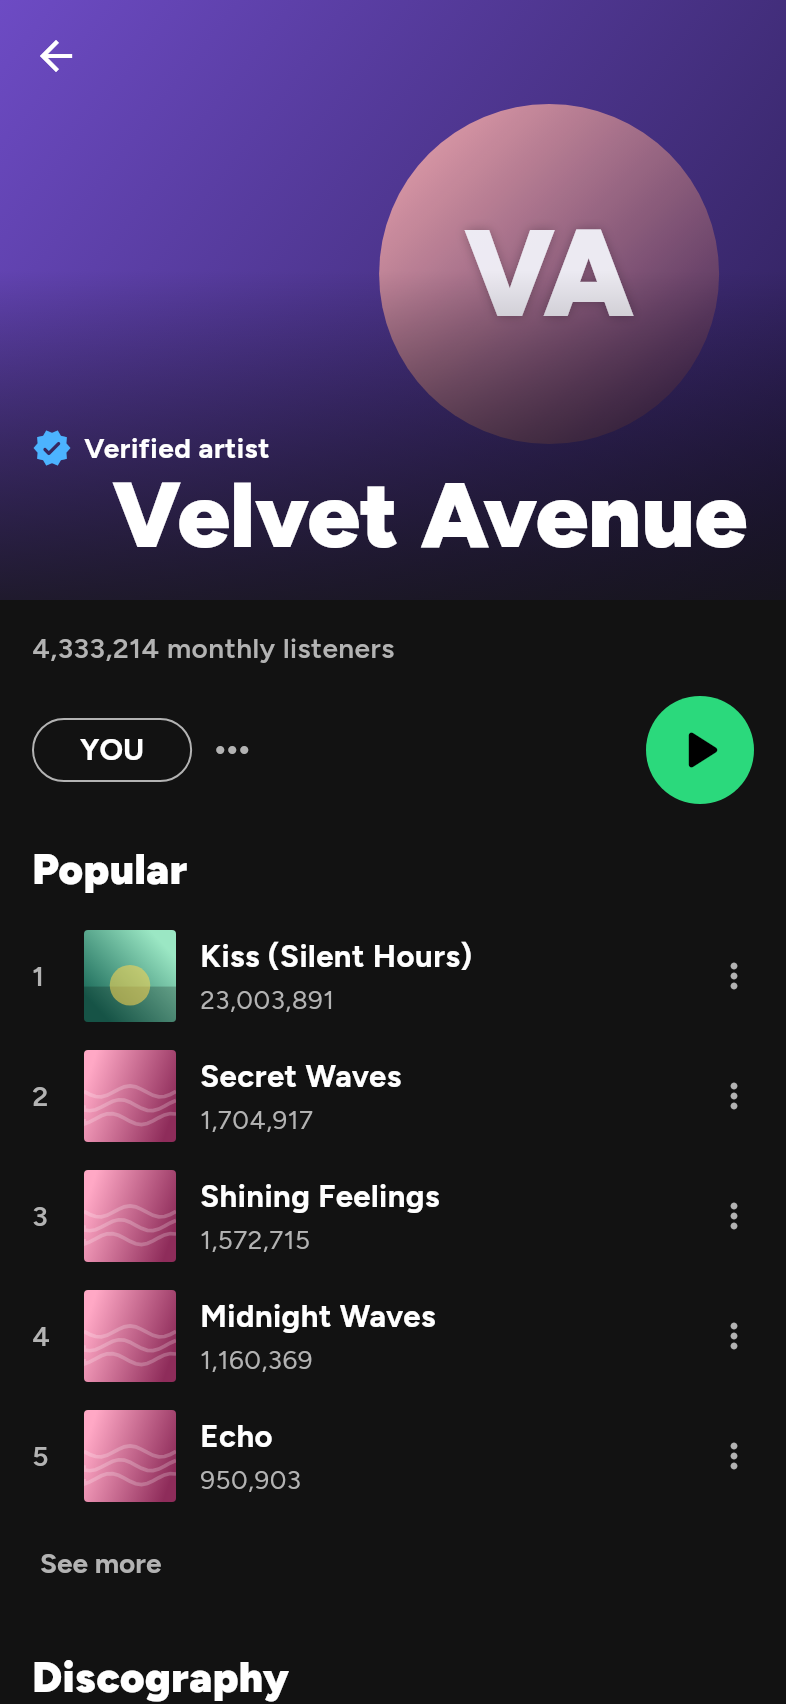
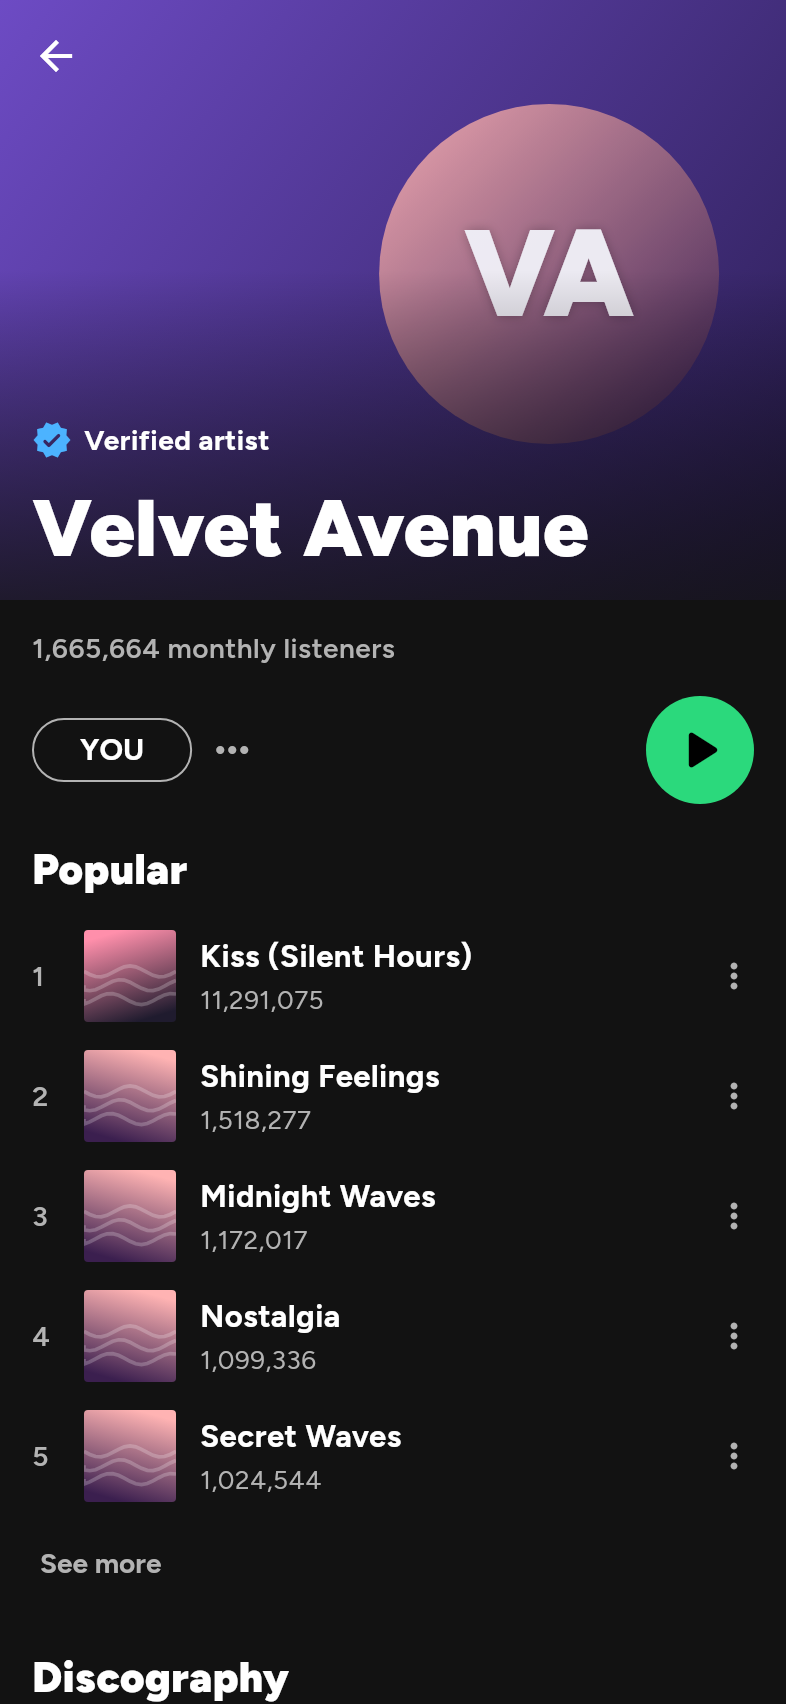
Smooth monthly listeners over four weeks; fix Streamify header on iOS
Claude-Session: https://claude.ai/code/session_01UqeaYiXbKvrTFgHV44HcjP

diff --git a/app/lib/screens/streamify/artist_page.dart b/app/lib/screens/streamify/artist_page.dart
@@ -104,61 +104,78 @@ class _ArtistPageState extends State<ArtistPage> {
         pinned: true,
         backgroundColor: c2,
         foregroundColor: Colors.white,
-        flexibleSpace: FlexibleSpaceBar(
-          titlePadding: const EdgeInsetsDirectional.only(start: 56, bottom: 14),
-          title: Text(a.name,
-              maxLines: 1,
-              overflow: TextOverflow.ellipsis,
-              style: const TextStyle(
-                  fontWeight: FontWeight.w900, color: Colors.white)),
-          expandedTitleScale: 2.1,
-          background: Stack(fit: StackFit.expand, children: [
-            DecoratedBox(
-              decoration: BoxDecoration(
-                gradient: LinearGradient(
-                  begin: Alignment.topLeft,
-                  end: Alignment.bottomRight,
-                  colors: [c1, c2],
+        flexibleSpace: LayoutBuilder(builder: (context, box) {
+          // 0 = collapsed bar, 1 = fully open header. The name grows from
+          // the bar's title to a big left-aligned headline under the badge.
+          final top = MediaQuery.paddingOf(context).top;
+          final t =
+              ((box.maxHeight - top - kToolbarHeight) / (300 - kToolbarHeight))
+                  .clamp(0.0, 1.0);
+          return Stack(fit: StackFit.expand, children: [
+            FlexibleSpaceBar(
+              background: Stack(fit: StackFit.expand, children: [
+                DecoratedBox(
+                  decoration: BoxDecoration(
+                    gradient: LinearGradient(
+                      begin: Alignment.topLeft,
+                      end: Alignment.bottomRight,
+                      colors: [c1, c2],
+                    ),
+                  ),
                 ),
-              ),
-            ),
-            Align(
-              alignment: const Alignment(0.7, -0.2),
-              child: Opacity(
-                opacity: 0.9,
-                child: ArtistAvatar(
-                    name: a.name,
-                    seed: a.id,
-                    size: 170,
-                    artistId: a.id,
-                    photo: ArtistPhoto.streamify),
-              ),
-            ),
-            const DecoratedBox(
-              decoration: BoxDecoration(
-                gradient: LinearGradient(
-                  begin: Alignment.topCenter,
-                  end: Alignment.bottomCenter,
-                  colors: [Colors.transparent, Color(0xCC121212)],
-                  stops: [0.45, 1],
+                Align(
+                  alignment: const Alignment(0.7, -0.2),
+                  child: Opacity(
+                    opacity: 0.9,
+                    child: ArtistAvatar(
+                        name: a.name,
+                        seed: a.id,
+                        size: 170,
+                        artistId: a.id,
+                        photo: ArtistPhoto.streamify),
+                  ),
                 ),
-              ),
+                const DecoratedBox(
+                  decoration: BoxDecoration(
+                    gradient: LinearGradient(
+                      begin: Alignment.topCenter,
+                      end: Alignment.bottomCenter,
+                      colors: [Colors.transparent, Color(0xCC121212)],
+                      stops: [0.45, 1],
+                    ),
+                  ),
+                ),
+                if (a.fame > 0.25)
+                  Positioned(
+                    left: 16,
+                    bottom: 70,
+                    child: Row(children: [
+                      const Icon(Icons.verified_rounded,
+                          color: Color(0xFF4CB3FF), size: 20),
+                      const SizedBox(width: 6),
+                      Text(l.verifiedArtist,
+                          style: const TextStyle(
+                              color: Colors.white,
+                              fontWeight: FontWeight.w700)),
+                    ]),
+                  ),
+              ]),
             ),
-            if (a.fame > 0.25)
-              Positioned(
-                left: 16,
-                bottom: 66,
-                child: Row(children: [
-                  const Icon(Icons.verified_rounded,
-                      color: Color(0xFF4CB3FF), size: 20),
-                  const SizedBox(width: 6),
-                  Text(l.verifiedArtist,
-                      style: const TextStyle(
-                          color: Colors.white, fontWeight: FontWeight.w700)),
-                ]),
-              ),
-          ]),
-        ),
+            Positioned(
+              left: 16 + 40 * (1 - t),
+              right: 16,
+              bottom: 14,
+              child: Text(a.name,
+                  maxLines: 1,
+                  overflow: TextOverflow.ellipsis,
+                  style: TextStyle(
+                      fontSize: 20 + 20 * t,
+                      height: 1.1,
+                      fontWeight: FontWeight.w900,
+                      color: Colors.white)),
+            ),
+          ]);
+        }),
       ),
       SliverToBoxAdapter(
         child: Padding(

diff --git a/packages/game/lib/src/game_session.dart b/packages/game/lib/src/game_session.dart
@@ -268,6 +268,28 @@ class GameSession {
           if (al.artistId == _p.id) AlbumView.of(world, al),
       ];
 
+  /// The player's average weekly streams over the last four weeks (monthly
+  /// listeners count a 28-day window, so a release week does not make them
+  /// jump; docs F20).
+  double _fourWeekStreams() {
+    final now = world.artistLifetimeStreams(_p);
+    final rows = _store.db.select(
+        'SELECT week, lifetimeStreams FROM playerWeek WHERE week <= ? '
+        'ORDER BY week DESC LIMIT 1',
+        [world.week - 5]);
+    if (rows.isEmpty) {
+      final first = _store.db.select(
+          'SELECT week, lifetimeStreams FROM playerWeek ORDER BY week LIMIT 1');
+      if (first.isEmpty) return 0;
+      final weeks = world.week - 1 - (first.first['week'] as int);
+      if (weeks <= 0) return 0;
+      return (now - (first.first['lifetimeStreams'] as num).toDouble()) /
+          weeks;
+    }
+    final weeks = world.week - 1 - (rows.first['week'] as int);
+    return (now - (rows.first['lifetimeStreams'] as num).toDouble()) / weeks;
+  }
+
   /// Streamify artist page for any artist (player or rival).
   ArtistPageView artistPage(int artistId) {
     final w = world;
@@ -283,9 +305,11 @@ class GameSession {
         final d = weekly[y.id]!.compareTo(weekly[x.id]!);
         return d != 0 ? d : y.lifetimeStreams.compareTo(x.lifetimeStreams);
       });
+    final total = weekly.values.fold(0.0, (x, y) => x + y);
     return ArtistPageView(
       artist: ArtistView.of(w, a),
-      weeklyStreams: weekly.values.fold(0.0, (x, y) => x + y),
+      weeklyStreams: total,
+      listenerStreams: artistId == _p.id ? _fourWeekStreams() : total,
       popular: [for (final s in popular.take(10)) SongView.of(w, s)],
       albums: [
         for (final al in w.albums.reversed)

diff --git a/packages/game/lib/src/views.dart b/packages/game/lib/src/views.dart
@@ -518,10 +518,11 @@ class ArtistPageView {
   ArtistPageView({
     required this.artist,
     required this.weeklyStreams,
+    double? listenerStreams,
     required this.popular,
     required this.albums,
     required this.singles,
-  });
+  }) : listenerStreams = listenerStreams ?? weeklyStreams;
 
   final ArtistView artist;
 
@@ -537,7 +538,11 @@ class ArtistPageView {
   /// Singles not on an album, newest first.
   final List<SongView> singles;
 
-  double get monthlyListeners => Streamify.monthlyListeners(weeklyStreams);
+  /// Weekly streams averaged over the last month where known (the player);
+  /// monthly listeners follow it rather than a single week.
+  final double listenerStreams;
+
+  double get monthlyListeners => Streamify.monthlyListeners(listenerStreams);
 }
 
 /// Which number best tells a song's success in a given year (docs K38):

diff --git a/packages/game/test/game_test.dart b/packages/game/test/game_test.dart
@@ -671,6 +671,9 @@ void main() {
       expect(page.popular.length, lessThanOrEqualTo(10));
       expect(page.albums.single.title, 'Supernova');
       expect(page.monthlyListeners, greaterThan(0));
+      // Monthly listeners follow the last weeks' average, not this week.
+      expect(page.listenerStreams, greaterThan(0));
+      expect(page.listenerStreams, isNot(page.weeklyStreams));
       final us = g.chart(Charts.usSongs);
       expect(us.rows.first.weekValue, greaterThan(us.rows.last.weekValue));
       final rival = g.artistPage(us.rows.first.artistId);

diff --git a/docs/feedback.md b/docs/feedback.md
@@ -81,6 +81,9 @@ Kaynak: **E** = Emir'in notu, **T** = Claude'un test oyunu. Öncelik: **1** = ö
 | F16 | **Promo fiyatları çok ucuz** (Emir, Efsane mod): en pahalı Küresel kampanya $250K, ama her single'da kullanınca haftada milyonlar kazandırıyor; aşırı güçlü. | Öneri: (1) Kampanya fiyatı sabit değil, sanatçının büyüklüğüne ve döneme göre ölçeklensin (bir süperstarın küresel kampanyası milyonlar tutar; kampanya ne kadar çok kişiye ulaşırsa o kadar pahalı). (2) Aynı dönemde üst üste büyük kampanya yapınca etkisi azalsın (dinleyici yorulur). (3) Kampanyanın getirisi gelirden ayrı gösterilsin ki kâr/zarar görülsün. Plak şirketi masrafın bir kısmını ödüyor (K54), bu yüzden ölçekleme şirket payıyla birlikte ayarlanmalı. **Emir onayladı** (özellikle kâr/zarar). Sırada. |
 | F17 | **Saf satışlar Efsane modda bile çok yüksek** (Emir): 2030'da bile çok fazla saf albüm satılabiliyor. | İncelenecek: streaming döneminde fiziksel/dijital saf satış payı gerçekte çok düşük (2025'te büyük bir çıkışın saf satışı ~100–300K, rekorlar varyantlarla 1–3M). |
 | F18 | **Önceden çıkan single'lar albümün ilk haftasına sayılmasın** (Emir): toplama girsin, ayrı satır olarak görünsün. | ✅ Yapıldı (K56). |
+| F19 | **Efsane mod "tanrı modu" oldu** (Emir, 2051'e kadar JT kariyeri, ekran görüntüleri): FS/LS 217M, Man of the Woods 118M, 20/20 104–110M, EITIW 51.6M birim; kariyer 533B stream, 930M albüm birimi, 556M saf satış, $2.71B para; şarkılar 3–4,4B stream. | Gerçekte JT'nin tüm kariyeri ~30M albüm civarı. Efsane mod kolay olmalı ama bu kadar değil: albüm talebi, kampanya (F16) ve katalog stream'leri (T20) birlikte kısılacak; F17 ile aynı denge turunda yapılacak. |
+| F20 | **Aylık dinleyici çok oynak** (Emir): gerçekte haftadan haftaya bu kadar değişmez. | ✅ Oyuncunun aylık dinleyicisi artık son 4 haftanın ortalama stream'inden hesaplanıyor (Spotify'ın 28 günlük penceresi gibi); çıkış haftası sıçratmıyor. |
+| F21 | **Streamify sanatçı sayfasında "Verified artist" yazısı sanatçı adının üstüne biniyor** (Emir, iPhone ekranı). | ✅ iOS başlığı ortalıyordu; ad artık her platformda rozetin altında, sola hizalı, kapanınca geri tuşunun yanına küçülüyor. |
 
 ## Test oyunu 3 — Gerçek kariyer tekrarı (JT, Gerçekçi mod)
 
